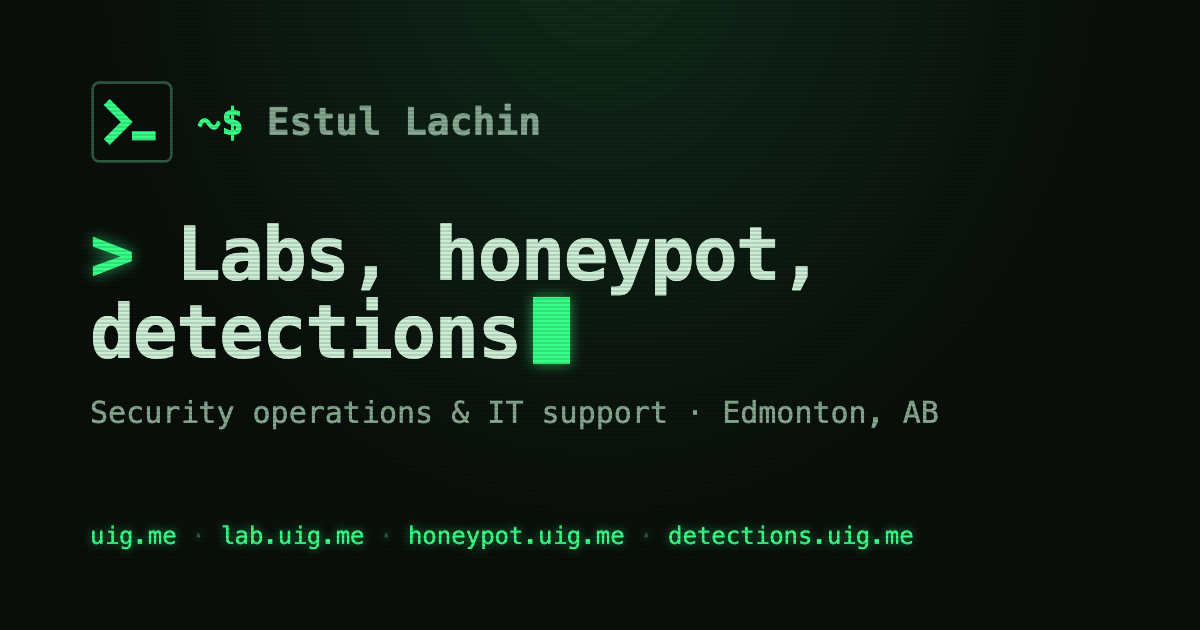
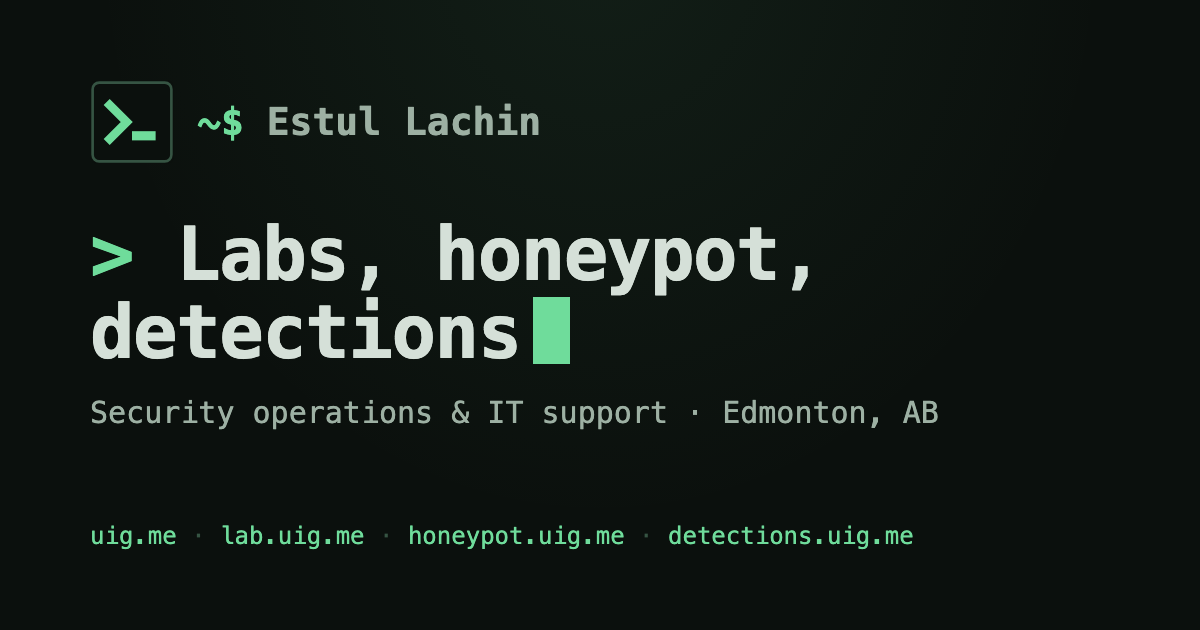
Calmer theme: no glow, no scanlines, softer accent
The neon green, text glow and CRT scanlines were tiring to read. The shared
block now uses a softer accent (#6fdc9b), neutral off-white text, no glow and
no scanline overlay, and the header cursor blinks four times, then stays solid.
The favicon and link-preview image are recoloured to match.

diff --git a/site/style.css b/site/style.css
@@ -3,21 +3,21 @@
 
 
 :root {
-  --bg: #0a0f0b;
-  --surface: #0f1712;
-  --text: #cdeed6;
-  --muted: #86a891;
-  --dim: #6f8f79;
-  --border: #20392a;
-  --border-strong: #2f5a41;
-  --accent: #39ff88;
-  --accent-2: #4fd6ff;
-  --warn: #ffb347;
-  --danger: #ff5c7a;
-  --ok: #39ff88;
-  --chip: #12211a;
-  --code-bg: #0c1a12;
-  --glow: 0 0 6px rgba(57, 255, 136, 0.45);
+  --bg: #0b100d;
+  --surface: #111915;
+  --text: #d5e0d8;
+  --muted: #9db0a3;
+  --dim: #7a8d80;
+  --border: #223329;
+  --border-strong: #365443;
+  --accent: #6fdc9b;
+  --accent-2: #7cc4e4;
+  --warn: #e6b36a;
+  --danger: #ee8090;
+  --ok: #6fdc9b;
+  --chip: #16221c;
+  --code-bg: #0f1813;
+  --glow: none; /* no blurred text: it tires the eyes */
   --radius: 2px;
   --font: ui-monospace, SFMono-Regular, "SF Mono", Menlo, Consolas, "Liberation Mono", monospace;
   --mono: var(--font);
@@ -36,17 +36,10 @@ body {
   margin: 0;
   min-height: 100vh;
   background:
-    radial-gradient(ellipse at 50% -10%, rgba(57, 255, 136, 0.07), transparent 60%),
+    radial-gradient(ellipse at 50% -10%, rgba(111, 220, 155, 0.04), transparent 60%),
     var(--bg);
   color: var(--text);
   font: 15px/1.7 var(--font);
-}
-
-/* CRT scanlines: static, decorative, never intercepts clicks */
-body::before {
-  content: ""; position: fixed; inset: 0; z-index: 100; pointer-events: none;
-  background: repeating-linear-gradient(to bottom, rgba(0, 0, 0, 0) 0, rgba(0, 0, 0, 0) 2px,
-    rgba(0, 0, 0, 0.18) 3px, rgba(0, 0, 0, 0) 4px);
 }
 
 ::selection { background: var(--accent); color: var(--bg); }
@@ -61,7 +54,7 @@ a:hover { text-decoration: underline; text-underline-offset: 3px; text-shadow: v
 [id] { scroll-margin-top: 72px; }
 
 .site-header {
-  border-bottom: 1px solid var(--border); background: rgba(10, 15, 11, 0.85);
+  border-bottom: 1px solid var(--border); background: rgba(11, 16, 13, 0.92);
   position: sticky; top: 0; z-index: 10; backdrop-filter: blur(6px);
 }
 .site-header .wrap { display: flex; align-items: center; justify-content: space-between; height: 56px; gap: 16px; }
@@ -70,7 +63,7 @@ a:hover { text-decoration: underline; text-underline-offset: 3px; text-shadow: v
 .brand::after {
   content: ""; display: inline-block; width: 0.55em; height: 1.05em; margin-left: 4px;
   vertical-align: -0.15em; background: var(--accent); box-shadow: var(--glow);
-  animation: blink 1.1s steps(1) infinite;
+  animation: blink 1.1s steps(1) 4; /* blinks a few times, then stays solid */
 }
 .brand:hover { text-decoration: none; }
 .site-header nav { display: flex; flex-wrap: wrap; gap: 6px 18px; }
@@ -108,7 +101,7 @@ h3 { font-size: 1rem; margin: 0 0 6px; }
     color-scheme: light;
   }
   body { background: #fff; }
-  body::before, .brand::after { display: none; }
+  .brand::after { display: none; }
   * { text-shadow: none !important; box-shadow: none !important; }
   .site-header { position: static; background: #fff; backdrop-filter: none; }
 }
@@ -147,18 +140,18 @@ h3 a:hover { color: var(--accent); }
 .button {
   display: inline-flex; align-items: center; min-height: 40px; padding: 0 18px; border-radius: var(--radius);
   background: var(--accent); color: var(--bg); font-weight: 700; border: 1px solid var(--accent);
-  box-shadow: 0 0 14px rgba(57, 255, 136, 0.25); transition: box-shadow 0.15s, background 0.15s, color 0.15s;
+  box-shadow: 0 0 14px rgba(111, 220, 155, 0.15); transition: box-shadow 0.15s, background 0.15s, color 0.15s;
 }
-.button:hover { text-decoration: none; text-shadow: none; box-shadow: 0 0 22px rgba(57, 255, 136, 0.5); }
+.button:hover { text-decoration: none; text-shadow: none; box-shadow: 0 0 22px rgba(111, 220, 155, 0.3); }
 .button.secondary { background: transparent; color: var(--accent); border-color: var(--border-strong); box-shadow: none; }
-.button.secondary:hover { border-color: var(--accent); background: rgba(57, 255, 136, 0.08); }
+.button.secondary:hover { border-color: var(--accent); background: rgba(111, 220, 155, 0.05); }
 
 .projects { display: grid; grid-template-columns: repeat(2, minmax(0, 1fr)); gap: 16px; }
 .card {
   background: var(--surface); border: 1px solid var(--border); border-radius: var(--radius);
   padding: 20px; min-width: 0; display: flex; flex-direction: column; transition: border-color 0.15s, box-shadow 0.15s;
 }
-.card:hover { border-color: var(--accent); box-shadow: 0 0 0 1px rgba(57, 255, 136, 0.15), 0 0 18px rgba(57, 255, 136, 0.12); }
+.card:hover { border-color: var(--accent); box-shadow: 0 0 0 1px rgba(111, 220, 155, 0.09), 0 0 18px rgba(111, 220, 155, 0.07); }
 .card p { margin: 0 0 12px; color: var(--muted); font-size: 14px; }
 .card .lead { color: var(--text); font-size: 15px; font-weight: 500; line-height: 1.5; }
 .card .detail { font-size: 13px; }

diff --git a/assets/og-image.html b/assets/og-image.html
@@ -3,26 +3,22 @@
 <html><head><meta charset="utf-8"><style>
   html, body { margin: 0; width: 1200px; height: 630px; overflow: hidden; }
   body {
-    background: radial-gradient(ellipse at 50% -10%, rgba(57,255,136,0.12), transparent 60%), #0a0f0b;
-    color: #cdeed6; box-sizing: border-box; padding: 80px 90px; position: relative;
+    background: radial-gradient(ellipse at 50% -10%, rgba(111,220,155,0.07), transparent 60%), #0b100d;
+    color: #d5e0d8; box-sizing: border-box; padding: 80px 90px; position: relative;
     font-family: ui-monospace, SFMono-Regular, "SF Mono", Menlo, monospace;
     display: flex; flex-direction: column;
   }
-  body::before {
-    content: ""; position: absolute; inset: 0;
-    background: repeating-linear-gradient(to bottom, transparent 0, transparent 2px, rgba(0,0,0,0.25) 3px, transparent 4px);
-  }
   .top { display: flex; align-items: center; gap: 24px; }
   .top img { width: 84px; height: 84px; }
-  .name { font-size: 38px; font-weight: 600; color: #86a891; }
-  .name::before { content: "~$ "; color: #39ff88; }
+  .name { font-size: 38px; font-weight: 600; color: #9db0a3; }
+  .name::before { content: "~$ "; color: #6fdc9b; }
   h1 { font-size: 84px; line-height: 1.05; margin: 56px 0 24px; letter-spacing: -0.02em; }
-  h1::before { content: "> "; color: #39ff88; text-shadow: 0 0 14px rgba(57,255,136,0.6); }
+  h1::before { content: "> "; color: #6fdc9b; }
   h1::after { content: ""; display: inline-block; width: 0.5em; height: 0.9em; margin-left: 12px; vertical-align: -0.08em;
-    background: #39ff88; box-shadow: 0 0 14px rgba(57,255,136,0.6); }
-  .by { font-size: 30px; color: #86a891; }
-  .url span { color: #2f5a41; }
-  .url { margin-top: auto; font-size: 32px; color: #39ff88; text-shadow: 0 0 10px rgba(57,255,136,0.5); }
+    background: #6fdc9b; }
+  .by { font-size: 30px; color: #9db0a3; }
+  .url span { color: #365443; }
+  .url { margin-top: auto; font-size: 32px; color: #6fdc9b; }
   h1 { font-size: 74px; margin-top: 52px; } .url { font-size: 24px; }
 </style></head><body>
   <div class="top"><img src="favicon.svg" alt=""><span class="name">Estul Lachin</span></div>
